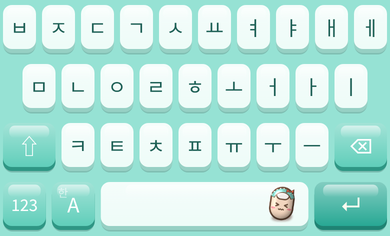
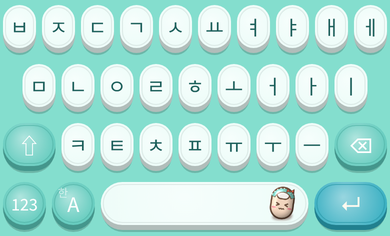
2026.11.11-2 동글 타자기·투명 젤리·클레이 키캡
Claude-Session: https://claude.ai/code/session_01GvSCgEXELCVfxACkb9NKF6

diff --git a/Keyboard/KeyboardView.swift b/Keyboard/KeyboardView.swift
@@ -12,6 +12,10 @@ final class KeyCap: UIView {
     private let grad = CAGradientLayer()
     /// 젤리 반짝임 (위에서 아래로 사라짐)
     private let glossGrad = CAGradientLayer()
+    /// 동글 타자기 안쪽 테두리
+    private let ring = CAShapeLayer()
+    /// 투명 젤리 물방울 반사광
+    private let drop = UIView()
     /// 계절 스티커 (키 모서리에 살짝 걸침, 누르는 영역과 무관)
     let sticker = UIImageView()
     var stickerPos: CGPoint? = nil { didSet { setNeedsLayout() } }
@@ -39,6 +43,13 @@ final class KeyCap: UIView {
         grad.startPoint = CGPoint(x: 0.5, y: 0)
         grad.endPoint = CGPoint(x: 0.5, y: 1)
         face.layer.insertSublayer(grad, at: 0)
+        ring.fillColor = UIColor.clear.cgColor
+        ring.lineWidth = 1
+        face.layer.insertSublayer(ring, above: grad)
+        drop.isUserInteractionEnabled = false
+        drop.backgroundColor = UIColor(white: 1, alpha: 0.75)
+        drop.isHidden = true
+        face.addSubview(drop)
         glossGrad.startPoint = CGPoint(x: 0.5, y: 0)
         glossGrad.endPoint = CGPoint(x: 0.5, y: 1)
         gloss.isUserInteractionEnabled = false
@@ -95,14 +106,30 @@ final class KeyCap: UIView {
             if isDown { f.origin.y += d * (theme.jelly ? 0.75 : 0.6) }
         }
         face.frame = f
-        face.layer.cornerRadius = theme.radius
-        layer.cornerRadius = theme.radius
+        // 동글 타자기는 키 칸 안에서 동그랗게(넓은 키는 알약)
+        let cr = theme.cap == "round" ? min(bounds.width, f.height) / 2 : theme.radius
+        face.layer.cornerRadius = cr
+        layer.cornerRadius = cr
         CATransaction.begin(); CATransaction.setDisableActions(true)
         grad.frame = face.bounds
-        grad.cornerRadius = theme.radius
+        grad.cornerRadius = cr
+        ring.frame = face.bounds
+        ring.path = theme.cap == "round" ? UIBezierPath(roundedRect: face.bounds.insetBy(dx: 2.5, dy: 2.5), cornerRadius: max(cr - 2.5, 0)).cgPath : nil
         CATransaction.commit()
         if theme.jelly {
-            layer.shadowPath = UIBezierPath(roundedRect: bounds.offsetBy(dx: 0, dy: 1.6).insetBy(dx: 0.5, dy: 0), cornerRadius: theme.radius).cgPath
+            let sp: CGRect
+            switch theme.cap {
+            case "clay": sp = bounds.offsetBy(dx: 0, dy: isDown ? 1 : 3.5).insetBy(dx: -1, dy: 0)
+            case "round": sp = bounds.offsetBy(dx: 0, dy: 2).insetBy(dx: 1.5, dy: 0)
+            default: sp = bounds.offsetBy(dx: 0, dy: 1.6).insetBy(dx: 0.5, dy: 0)
+            }
+            layer.shadowPath = UIBezierPath(roundedRect: sp, cornerRadius: cr).cgPath
+        }
+        if theme.cap == "clear" {
+            let fb = face.bounds
+            let ow = min(fb.width * 0.28, 14), oh = fb.height * 0.13
+            drop.frame = CGRect(x: fb.width * 0.22 - ow / 2, y: fb.height * 0.2 - oh / 2, width: ow, height: oh)
+            drop.layer.cornerRadius = oh / 2
         }
         label.frame = face.bounds.insetBy(dx: 2, dy: 0)
         hint.frame = CGRect(x: 5, y: 2, width: 20, height: 13)
@@ -150,25 +177,65 @@ final class KeyCap: UIView {
         face.layer.shadowOffset = CGSize(width: 0, height: t.shadowColor == nil ? 1 : 2.5)
         gloss.isHidden = !(t.gloss || t.jelly) || isDown
         gloss.backgroundColor = t.jelly ? .clear : UIColor(white: 1, alpha: 0.35)
+        drop.isHidden = true
+        ring.isHidden = true
         if t.jelly {
-            // 3D 젤리: 아랫단은 윗면보다 진하게, 윗면은 위가 밝은 그라데이션, 바닥에 은은한 그림자
+            // 3D 키캡: 아랫단은 윗면보다 진하게, 윗면은 위가 밝은 그라데이션, 바닥에 은은한 그림자
             let top = (face.backgroundColor ?? t.key).resolvedColor(with: traitCollection)
             let fallbackSide = KeyCap.mix(top, .black, (isSpecial || isAccent) ? 0.22 : 0.16)
             backgroundColor = ((isSpecial || isAccent) ? (isAccent ? KeyCap.mix(top, .black, 0.22) : (t.sideSpecial ?? fallbackSide)) : (t.side ?? fallbackSide)).resolvedColor(with: traitCollection)
             CATransaction.begin(); CATransaction.setDisableActions(true)
             grad.isHidden = false
+            grad.type = .axial
+            grad.startPoint = CGPoint(x: 0.5, y: 0); grad.endPoint = CGPoint(x: 0.5, y: 1)
             var br: CGFloat = 0, bgc: CGFloat = 0, bb: CGFloat = 0, ba: CGFloat = 0
             t.bg.resolvedColor(with: traitCollection).getRed(&br, green: &bgc, blue: &bb, alpha: &ba)
             let ga: CGFloat = (br + bgc + bb) * 255 < 120 ? 0.16 : 0.6
             if glossGrad.superlayer == nil { gloss.layer.addSublayer(glossGrad) }
             glossGrad.colors = [UIColor(white: 1, alpha: ga).cgColor, UIColor(white: 1, alpha: 0).cgColor]
             grad.colors = [KeyCap.mix(top, .white, isDown ? 0.10 : 0.42).cgColor, top.cgColor]
-            CATransaction.commit()
             face.layer.shadowOpacity = 0
             layer.shadowColor = KeyCap.mix(backgroundColor ?? .black, .black, 0.66).cgColor
             layer.shadowOpacity = 0.4
             layer.shadowRadius = 1.2
             layer.shadowOffset = .zero
+            switch t.cap {
+            case "round":
+                // 동글 타자기: 둥근 빛 + 안쪽 테두리, 반짝임 띠 없음
+                backgroundColor = KeyCap.mix(top, .black, (isSpecial || isAccent) ? 0.26 : 0.18)
+                grad.type = .radial
+                grad.startPoint = CGPoint(x: 0.4, y: 0.35); grad.endPoint = CGPoint(x: 1.05, y: 1.05)
+                grad.colors = [KeyCap.mix(top, .white, isDown ? 0.15 : 0.5).cgColor, top.cgColor]
+                ring.isHidden = false
+                ring.strokeColor = KeyCap.mix(top, .black, 0.12).withAlphaComponent(0.6).cgColor
+                gloss.isHidden = true
+                layer.shadowColor = UIColor.black.cgColor
+                layer.shadowOpacity = 0.18
+                layer.shadowRadius = 1
+            case "clear":
+                // 투명 젤리: 속이 비치는 윗면 + 흰 테두리 + 물방울 반사광
+                face.backgroundColor = top.withAlphaComponent(isDown ? 0.75 : 0.55)
+                backgroundColor = top.withAlphaComponent(0.35)
+                grad.colors = [KeyCap.mix(top, .white, 0.55).withAlphaComponent(isDown ? 0.86 : 0.75).cgColor, top.withAlphaComponent(0.0).cgColor]
+                face.layer.borderWidth = 1.3
+                face.layer.borderColor = UIColor(white: 1, alpha: 0.85).cgColor
+                gloss.isHidden = true
+                drop.isHidden = isDown
+                layer.shadowOpacity = 0
+            case "clay":
+                // 클레이: 무광 점토. 퍼진 그림자, 누르면 그림자가 줄어듦
+                backgroundColor = .clear
+                grad.colors = [KeyCap.mix(top, .white, isDown ? 0.05 : 0.28).cgColor, KeyCap.mix(top, .black, 0.05).cgColor]
+                face.layer.borderWidth = 1.5
+                face.layer.borderColor = UIColor(white: 1, alpha: isDown ? 0.16 : 0.43).cgColor
+                gloss.isHidden = true
+                layer.shadowColor = KeyCap.mix(top, .black, 0.45).cgColor
+                layer.shadowOpacity = isDown ? 0.3 : 0.38
+                layer.shadowRadius = isDown ? 1.5 : 3.5
+            default: break
+            }
+            CATransaction.commit()
+            setNeedsLayout()
         } else {
             grad.isHidden = true
             layer.shadowOpacity = 0

diff --git a/Shared/KBTheme.swift b/Shared/KBTheme.swift
@@ -26,7 +26,8 @@ struct KBTheme {
     var short: String? = nil          // 테마 메뉴에 보일 짧은 이름
     var spaceIcon: String? = nil      // 스페이스바 팻핑이 (밤 모자 등)
     var sprinkle: String? = nil       // 키 모서리 곳곳의 작은 잎 (그림 이름 앞부분)
-    var jelly: Bool = true            // 3D 젤리 키캡 (위가 밝은 윗면 + 두께 + 반짝임)
+    var jelly: Bool = true            // 3D 키캡 (아래 cap 모양으로 그림)
+    var cap: String = "jelly"         // 키캡 모양: jelly 젤리 · round 동글 타자기 · clear 투명 젤리 · clay 클레이
 
     var menuName: String { short ?? name }
 
@@ -57,29 +58,26 @@ struct KBTheme {
                 text: c(226, 226, 222), specialText: c(160, 160, 156),
                 side: c(18, 18, 22), sideSpecial: c(10, 10, 12), depth: 4, radius: 10),
         KBTheme(id: "mint", name: "민트 소다",
-                bg: c(150, 226, 212), key: c(238, 252, 248), special: c(96, 206, 186),
-                pressKey: c(214, 242, 236), pressSpecial: c(80, 190, 170),
-                text: c(30, 96, 86), specialText: .white,
-                side: c(150, 208, 196), sideSpecial: c(46, 150, 132), accent: c(40, 168, 148),
-                depth: 4, radius: 10),
-        KBTheme(id: "peach", name: "피치 코랄",
-                bg: c(255, 214, 200), key: c(255, 245, 239), special: c(255, 150, 128),
-                pressKey: c(252, 226, 216), pressSpecial: c(240, 130, 110),
-                text: c(186, 80, 64), specialText: .white,
-                side: c(236, 182, 166), sideSpecial: c(214, 96, 80), accent: c(246, 104, 84),
-                depth: 4, radius: 10),
+                bg: c(132, 222, 206), key: c(236, 252, 248), special: c(90, 200, 186),
+                pressKey: c(212, 240, 234), pressSpecial: c(74, 184, 170),
+                text: c(30, 96, 92), specialText: .white,
+                accent: c(44, 170, 190), depth: 5, radius: 10, short: "동글 민트", cap: "round"),
+        KBTheme(id: "peach", name: "투명 피치 젤리",
+                bg: c(255, 214, 204), key: c(255, 176, 160), special: c(255, 140, 130),
+                pressKey: c(250, 150, 134), pressSpecial: c(236, 116, 106),
+                text: c(150, 50, 46), specialText: .white,
+                accent: c(255, 110, 110), depth: 3, radius: 12, short: "투명 피치", cap: "clear"),
         KBTheme(id: "lime", name: "라임 젤리",
                 bg: c(214, 236, 190), key: c(249, 252, 241), special: c(176, 220, 110),
                 pressKey: c(232, 242, 218), pressSpecial: c(156, 204, 90),
                 text: c(60, 90, 40), specialText: c(40, 70, 24),
                 side: c(196, 214, 168), sideSpecial: c(116, 166, 56), accent: c(110, 172, 52),
                 depth: 4, radius: 10),
-        KBTheme(id: "lavender", name: "라벤더 젤리",
-                bg: c(222, 212, 246), key: c(252, 248, 255), special: c(184, 160, 240),
-                pressKey: c(238, 230, 252), pressSpecial: c(168, 142, 228),
-                text: c(96, 72, 156), specialText: .white,
-                side: c(204, 190, 236), sideSpecial: c(128, 100, 204), accent: c(150, 112, 232),
-                depth: 4, radius: 10),
+        KBTheme(id: "lavender", name: "라벤더 클레이",
+                bg: c(232, 224, 248), key: c(242, 235, 253), special: c(198, 180, 240),
+                pressKey: c(226, 216, 246), pressSpecial: c(180, 160, 230),
+                text: c(100, 80, 150), specialText: .white,
+                accent: c(160, 130, 232), depth: 0, radius: 12, short: "라벤더 클레이", cap: "clay"),
         KBTheme(id: "coral", name: "가을 코랄",
                 bg: c(250, 160, 130), key: c(255, 251, 247), special: c(238, 104, 80),
                 pressKey: c(255, 234, 224), pressSpecial: c(214, 88, 66),

diff --git a/App/FingerErrorApp.swift b/App/FingerErrorApp.swift
@@ -82,7 +82,7 @@ struct ContentView: View {
                 }
             }
             .safeAreaInset(edge: .bottom) {
-                Text("버전 2026.11.11 (3D 젤리 디자인) · 100개마다 리포트 · 한/A 영어 · 테마별 팻핑이 · 기념일").font(.caption2).foregroundStyle(.secondary).padding(4)
+                Text("버전 2026.11.11-2 (동글·투명·클레이 키캡) · 100개마다 리포트 · 한/A 영어 · 테마별 팻핑이 · 기념일").font(.caption2).foregroundStyle(.secondary).padding(4)
             }
             .navigationTitle("핑거에러")
             // 3D 젤리: 크림 배경 + 복숭아 포인트
